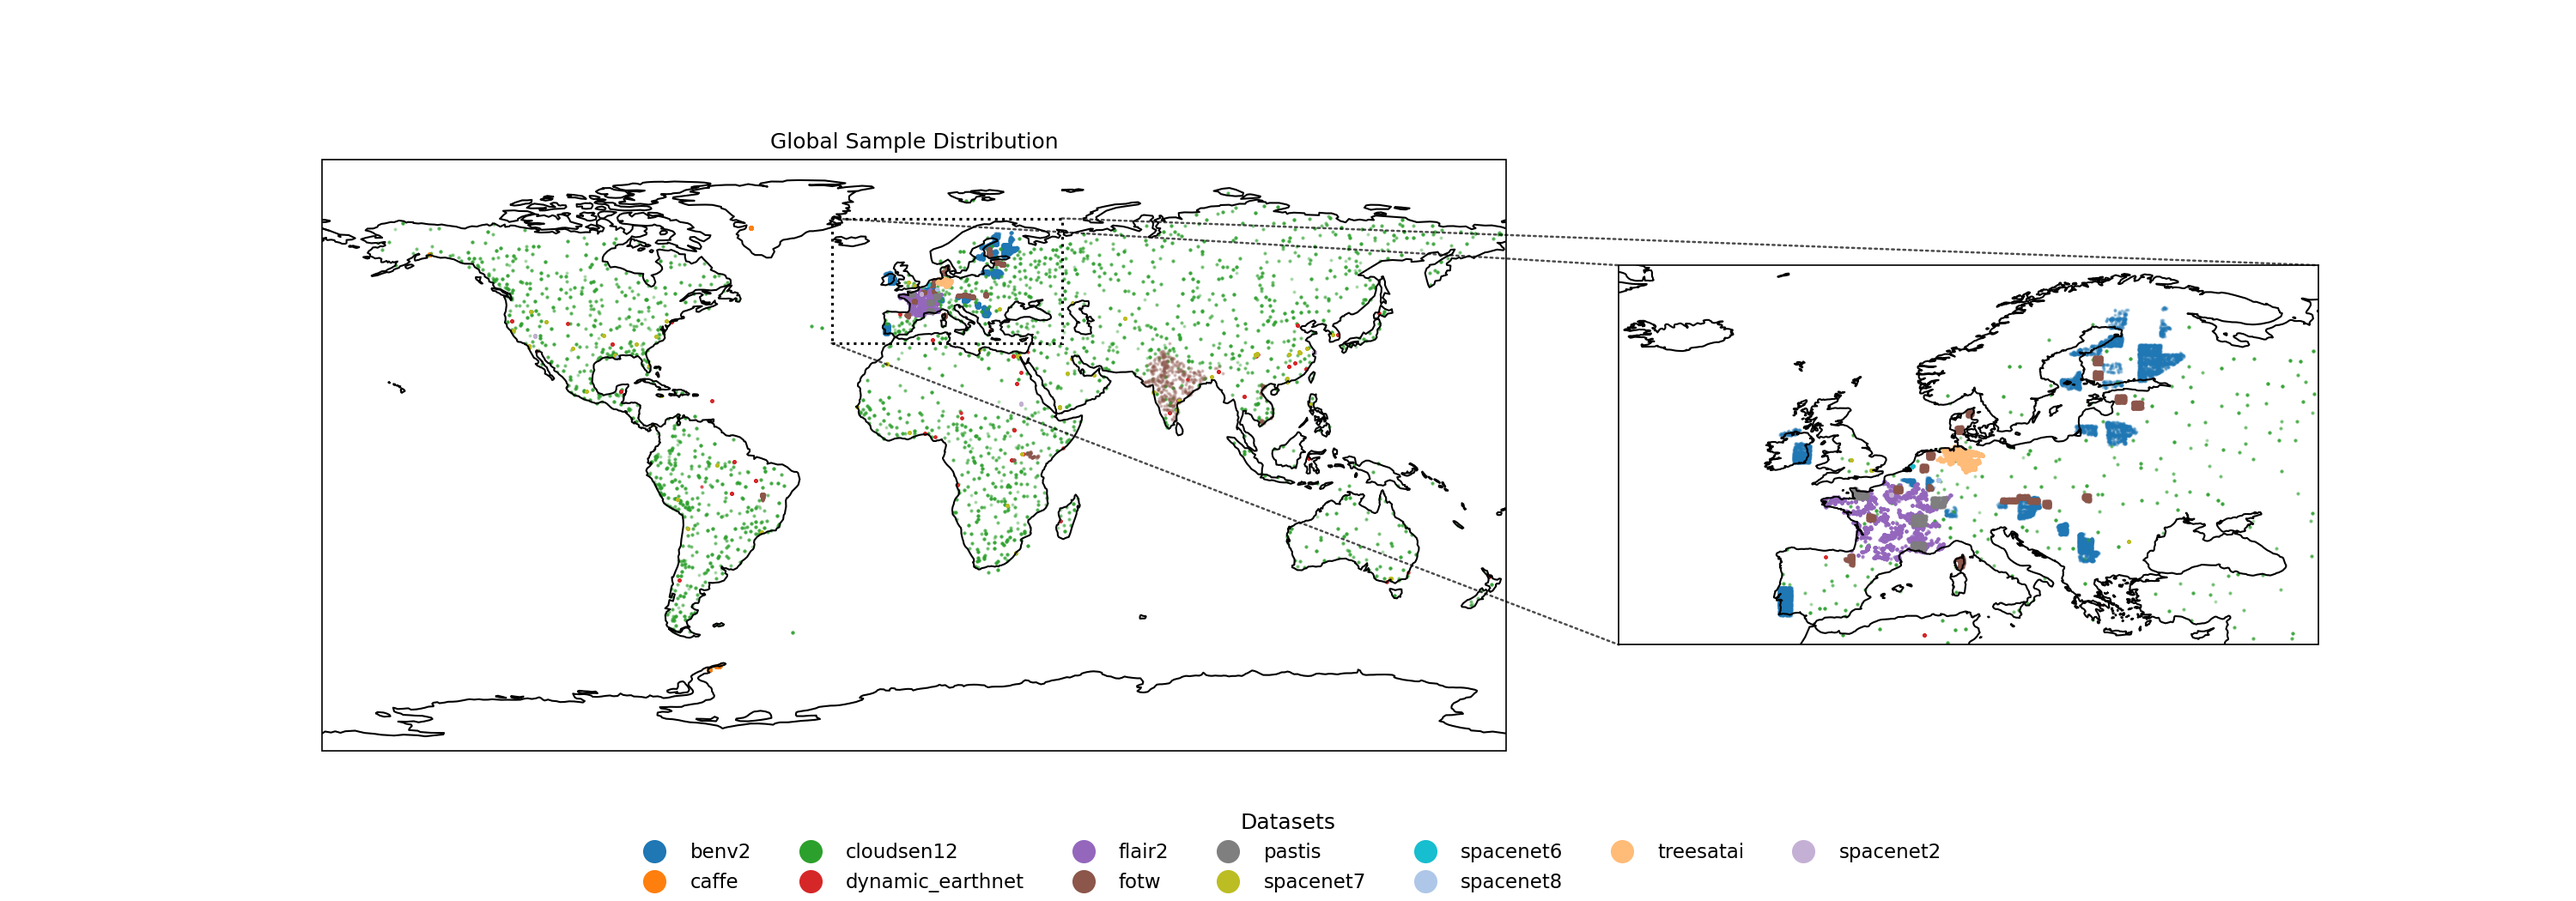
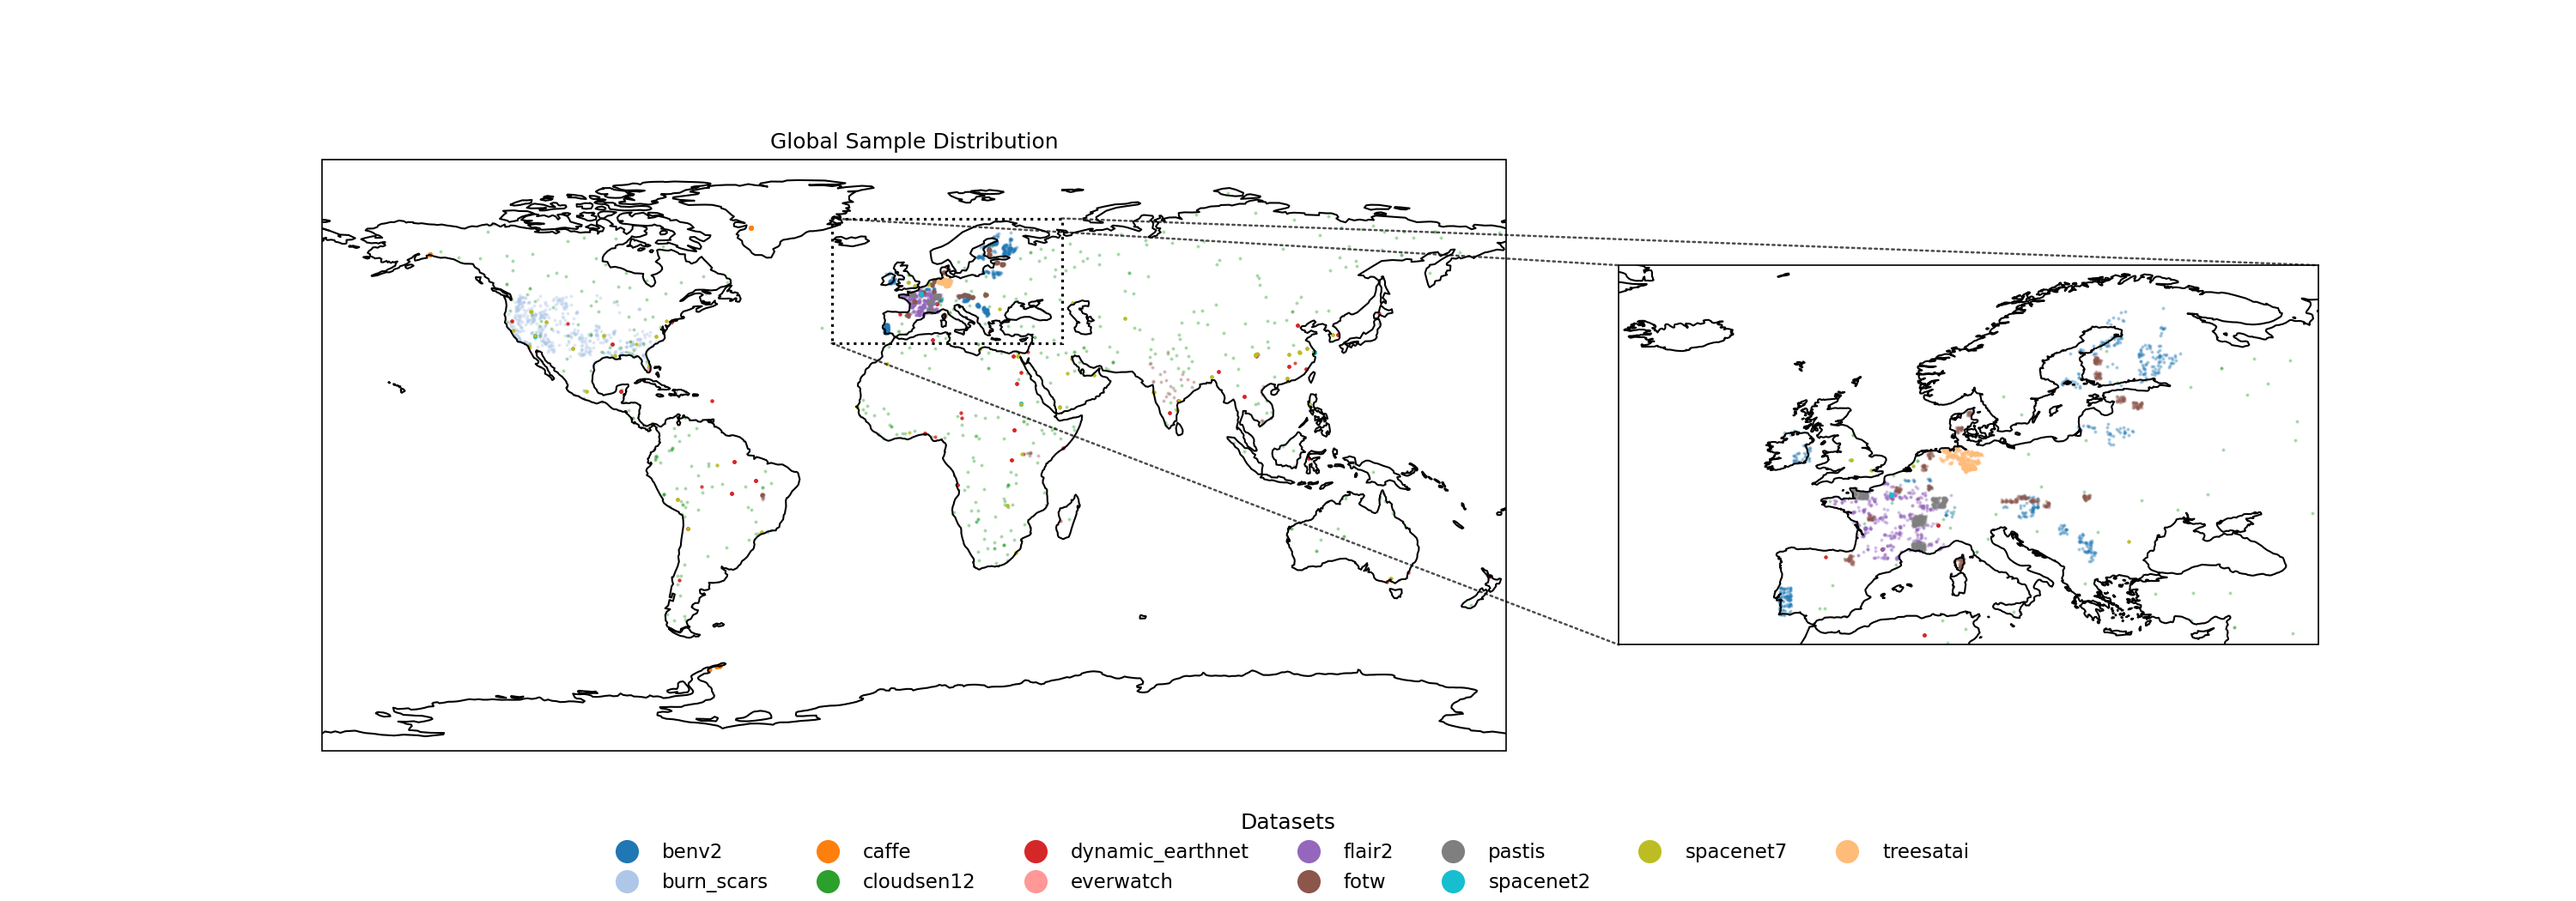
update plots

diff --git a/geobench_v2/datasets/visualization_util.py b/geobench_v2/datasets/visualization_util.py
@@ -6,10 +6,17 @@
 import json
 from typing import Any
 
+import cartopy.crs as ccrs
+import geopandas as gpd
+import matplotlib.lines as mlines
 import matplotlib.pyplot as plt
 import numpy as np
+import pandas as pd
 import seaborn as sns
+import tacoreader
 from matplotlib.gridspec import GridSpec
+from matplotlib.patches import ConnectionPatch, Rectangle
+from shapely.geometry import Point
 from torch import Tensor
 
 
@@ -555,3 +562,216 @@ def compare_normalization_methods(
     fig.subplots_adjust(top=0.95 if n_modalities == 1 else 0.97)
 
     return fig, normalized_batches
+
+
+DATASET_COLORS = {
+    "biomassters": "#98df8a",  # light green
+    "benv2": "#1f77b4",  # blue
+    "burn_scars": "#aec7e8",  # light blue
+    "caffe": "#ff7f0e",  # orange
+    "cloudsen12": "#2ca02c",  # green
+    "dynamic_earthnet": "#d62728",  # red
+    "everwatch": "#ff9896",  # light red
+    "flair2": "#9467bd",  # purple
+    "fotw": "#8c564b",  # brown
+    "kuro_siwo": "#e377c2",  # pink
+    "pastis": "#7f7f7f",  # gray
+    "spacenet2": "#17becf",  # teal
+    "spacenet7": "#bcbd22",  # olive
+    "treesatai": "#ffbb78",  # light orange
+    "wind_turbine": "#c5b0d5",  # light purple
+}
+
+
+def plot_global_sample_distribution(
+    taco_paths: dict[str, list[str]], labels=None, output_path="global_distribution.png"
+):
+    """Plots the distribution of samples across the globe for a dictionary of TACO DataFrames,
+    with a zoomed-in subplot for Europe and visual links between the two.
+    """
+    fig = plt.figure(figsize=(20, 7))
+    gs = GridSpec(1, 2, width_ratios=[2.2, 1.3], wspace=0.12)
+
+    # Gglobal map
+    ax_global = fig.add_subplot(gs[0, 0], projection=ccrs.PlateCarree())
+    ax_global.coastlines()
+    ax_global.set_global()
+    ax_global.set_title("Global Sample Distribution")
+
+    # have a zoom over europe
+    ax_europe = fig.add_subplot(gs[0, 1], projection=ccrs.PlateCarree())
+    ax_europe.coastlines()
+    ax_europe.set_extent([-25, 45, 34, 72], crs=ccrs.PlateCarree())
+
+    legend_handles = []
+    for label, path_list in taco_paths.items():
+        df = tacoreader.load(path_list)
+
+        df = df.sample(n=500)
+
+        if "lon" not in df.columns:
+            continue
+        # Global scatter
+        ax_global.scatter(
+            df["lon"],
+            df["lat"],
+            s=1,
+            alpha=0.3,
+            color=DATASET_COLORS[label],
+            label=label,
+            transform=ccrs.PlateCarree(),
+        )
+        # Europe scatter (only points in Europe extent)
+        europe_mask = (
+            (df["lon"] >= -25)
+            & (df["lon"] <= 45)
+            & (df["lat"] >= 34)
+            & (df["lat"] <= 72)
+        )
+        ax_europe.scatter(
+            df.loc[europe_mask, "lon"],
+            df.loc[europe_mask, "lat"],
+            s=1,
+            alpha=0.3,
+            color=DATASET_COLORS[label],
+            label=label,
+            transform=ccrs.PlateCarree(),
+        )
+        # legend globe
+        handle = mlines.Line2D(
+            [],
+            [],
+            color=DATASET_COLORS[label],
+            marker="o",
+            linestyle="None",
+            markersize=12,
+            alpha=1.0,
+            label=label,
+        )
+        legend_handles.append(handle)
+
+    lon_min, lon_max = -25, 45
+    lat_min, lat_max = 34, 72
+    width = lon_max - lon_min
+    height = lat_max - lat_min
+
+    europe_rect = Rectangle(
+        (lon_min, lat_min),
+        width,
+        height,
+        linewidth=1.5,
+        edgecolor="black",
+        facecolor="none",
+        linestyle="dotted",
+        zorder=10,
+    )
+    europe_rect.set_transform(ccrs.PlateCarree())
+    ax_global.add_patch(europe_rect)
+
+    # draw connections
+    rect_corners = [
+        (lon_min, lat_min),  # lower-left
+        (lon_max, lat_max),  # upper-right
+        (lon_min, lat_max),  # upper-left
+    ]
+    europe_axes_corners = [
+        (0.0, 0.0),  # lower-left in axes fraction
+        (1.0, 1.0),  # upper-right
+        (0.0, 1.0),  # upper-left
+    ]
+
+    for (lon, lat), (xf, yf) in zip(rect_corners, europe_axes_corners):
+        con = ConnectionPatch(
+            xyA=(lon, lat),
+            xyB=(xf, yf),
+            coordsA="data",
+            coordsB="axes fraction",
+            axesA=ax_global,
+            axesB=ax_europe,
+            linestyle="dotted",
+            linewidth=1.2,
+            color="black",
+            alpha=0.7,
+            zorder=5,
+        )
+        ax_europe.add_artist(con)
+
+    n_items = len(legend_handles)
+    ncol = min(n_items, 7) if n_items > 0 else 1
+    fig.legend(
+        handles=legend_handles,
+        loc="lower center",
+        ncol=ncol,
+        frameon=False,
+        bbox_to_anchor=(0.5, -0.01),
+        fontsize=11,
+        title="Datasets",
+        title_fontsize=12,
+    )
+
+    plt.tight_layout(rect=(0, 0.05, 1, 1))
+    plt.savefig(output_path, dpi=150)
+    plt.close(fig)
+
+
+def extract_continent_names(df):
+    geometry = [Point(xy) for xy in zip(df["lon"], df["lat"])]
+    gdf_points = gpd.GeoDataFrame(df, geometry=geometry, crs="EPSG:4326")
+    url = (
+        "https://naciscdn.org/naturalearth/110m/cultural/ne_110m_admin_0_countries.zip"
+    )
+    world = gpd.read_file(url)
+    continents = world.dissolve(by="CONTINENT")[["geometry"]]
+    gdf_points = gpd.sjoin(gdf_points, continents, how="left", predicate="within")
+    gdf_points = gdf_points.rename(columns={"CONTINENT": "continent_name"})
+    return gdf_points
+
+
+def plot_continent_bar(
+    taco_paths: dict[str, list[str]], output_path="continent_bar.png"
+):
+    """Plots the aggregate percentage distribution of samples across continents for all datasets combined.
+
+    Args:
+        taco_paths: dict[str, list[str]] (dict): dictionary of paths to tacos to visualize
+        output_path (str): Path to save the output plot.
+    """
+    all_samples = []
+
+    for paths in taco_paths.values():
+        df = tacoreader.load(paths)
+        if "lon" not in df.columns or "lat" not in df.columns:
+            continue
+        gdf_points = extract_continent_names(df)
+        gdf_points = gdf_points.dropna(subset=["continent_name"])
+        all_samples.append(gdf_points["continent_name"])
+
+    all_continents_series = pd.concat(all_samples)
+    continent_counts = all_continents_series.value_counts().sort_index()
+    total_samples = continent_counts.sum()
+    continent_percentages = (continent_counts / total_samples * 100).sort_index()
+
+    fig, ax = plt.subplots(figsize=(10, 6))
+    bars = ax.bar(
+        continent_percentages.index, continent_percentages.values, color="skyblue"
+    )
+    ax.set_xticklabels(continent_percentages.index, rotation=45)
+    ax.set_ylabel("Percentage of Samples (%)")
+    ax.set_title("Aggregate Sample Percentage by Continent")
+
+    for bar in bars:
+        height = bar.get_height()
+        ax.annotate(
+            f"{height:.1f}%",
+            xy=(bar.get_x() + bar.get_width() / 2, height),
+            xytext=(0, 3),
+            textcoords="offset points",
+            ha="center",
+            va="bottom",
+            fontsize=11,
+        )
+
+    plt.tight_layout()
+    plt.savefig(output_path, dpi=150)
+    plt.close(fig)
+    print(f"Saved aggregate continent bar chart as {output_path}")

diff --git a/docs/index.md b/docs/index.md
@@ -35,6 +35,15 @@ pip install geobenchv2
 Global Sample Distribution
 ```
 
+## Geographical Distribution across Continents
+
+```{figure} _static/global_coverage_bar.png
+:alt: Global Sample Distribution Continets
+:width: 100%
+:align: center
+
+Global Coverage Distribution Continets
+```
 
 ```{toctree}
 :maxdepth: 1
